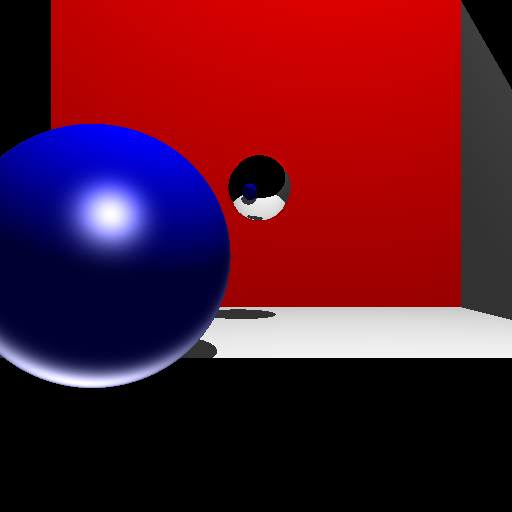
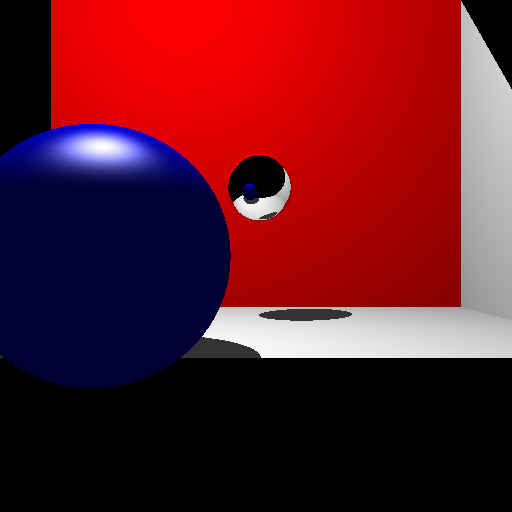
working glare

diff --git a/src/main.rs b/src/main.rs
@@ -131,11 +131,13 @@ fn specular_calc(
     _triangles: &[Triangle],
 ) -> f32 {
     // TODO THIS DOES NOT WORK
-    let reflect = surface_norm * (-2.0 * (impact_direction * surface_norm)) + impact_direction;
-
+    // let reflect = surface_norm * (-2.0 * (impact_direction * surface_norm)) + impact_direction;
     let light_dir_norm = norm(light_pos - pos);
+    let reflect = surface_norm * (surface_norm * light_dir_norm * 2.0) - light_dir_norm;
+
     let half_angle = norm(norm(pos * -1.0) + light_dir_norm);
-    let specular = (norm(reflect) * half_angle).powf(10.0);
+    // let specular = (norm(reflect) * half_angle).powf(10.0);
+    let specular = (norm(reflect) * norm(pos * -1.0)).powf(11.0);
 
     return specular.clamp(0.0, 1.0);
     // return (norm(reflect) * norm(pos)).powf(10.0).clamp(0.0, 1.0);
@@ -174,7 +176,7 @@ fn main() {
     let mut img: image::RgbImage = image::ImageBuffer::new(pixel_count, pixel_count);
 
     let start_pos = vec(0.0, 0.0, 0.0);
-    let light_pos = vec(3.0, 20.0, -3.0);
+    let light_pos = vec(-3.0, 10.0, -10.0);
 
     let spheres = [
         sphere(vec(0.1, 2.0, -15.0), 1.0, REFL, 1 as i8),
